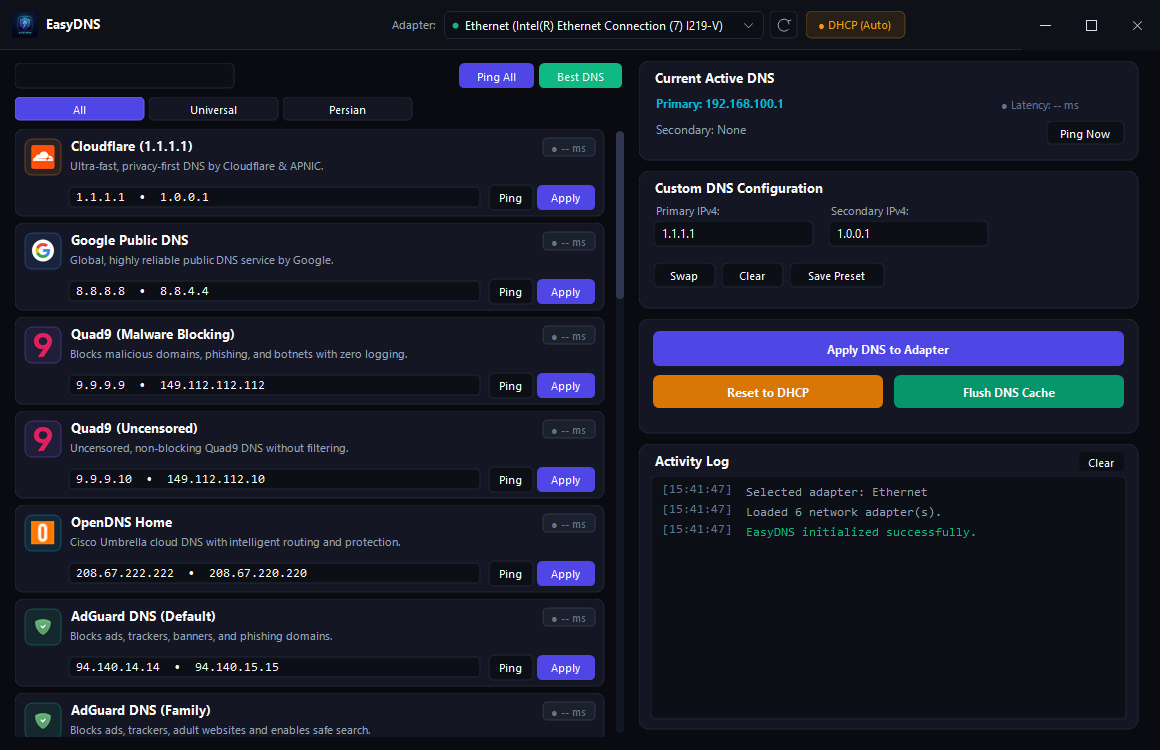
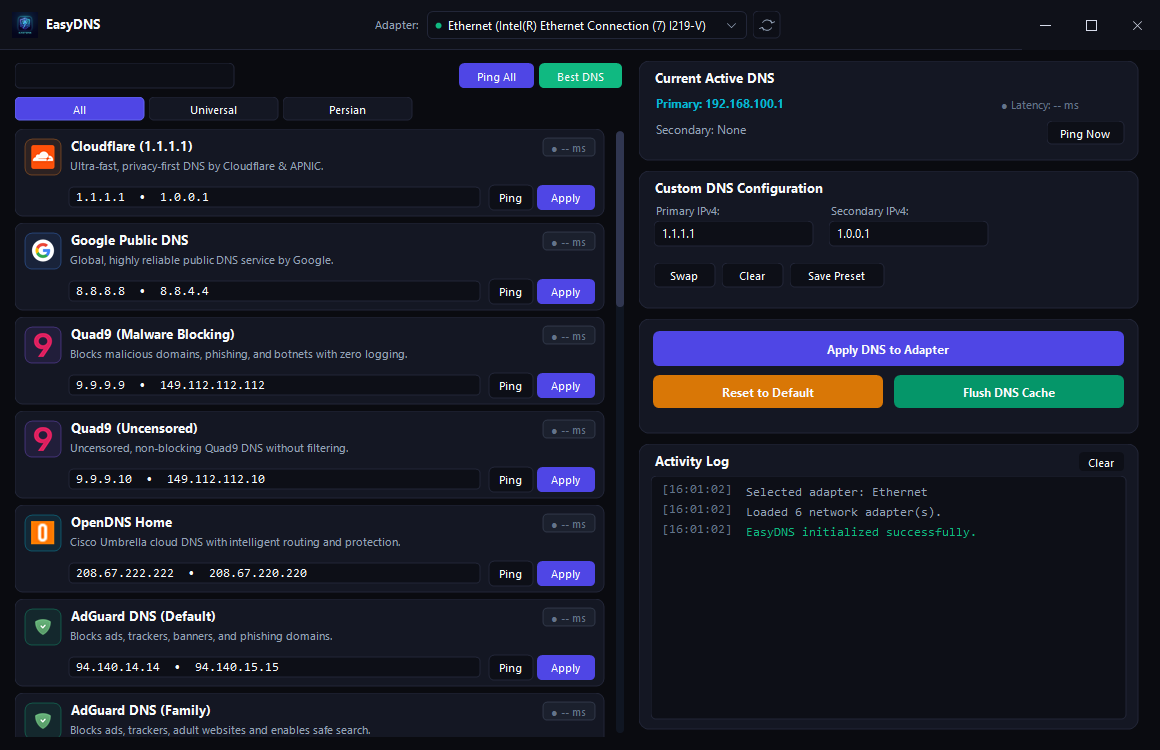
docs: add application preview screenshot and update feature descriptions

diff --git a/README.md b/README.md
@@ -10,7 +10,7 @@ EasyDNS is a lightweight Windows desktop utility for configuring network adapter
 - **Custom DNS Profiles**: Add, save, and manage custom IPv4 primary and secondary DNS server pairs.
 - **Latency Benchmarking**: Measure response times across all resolvers in parallel to identify the fastest DNS server for your network.
 - **DNS Cache Flushing**: Flush the Windows DNS resolver cache directly via native Windows APIs and `ipconfig`.
-- **DHCP Restoration**: Restore network adapter DNS settings to automatic (DHCP) with one click.
+- **Default Restoration**: Restore network adapter DNS settings to default (automatic) with one click.
 - **Adapter Detection**: Automatically detects active physical and wireless network adapters.
 
 ## System Requirements
